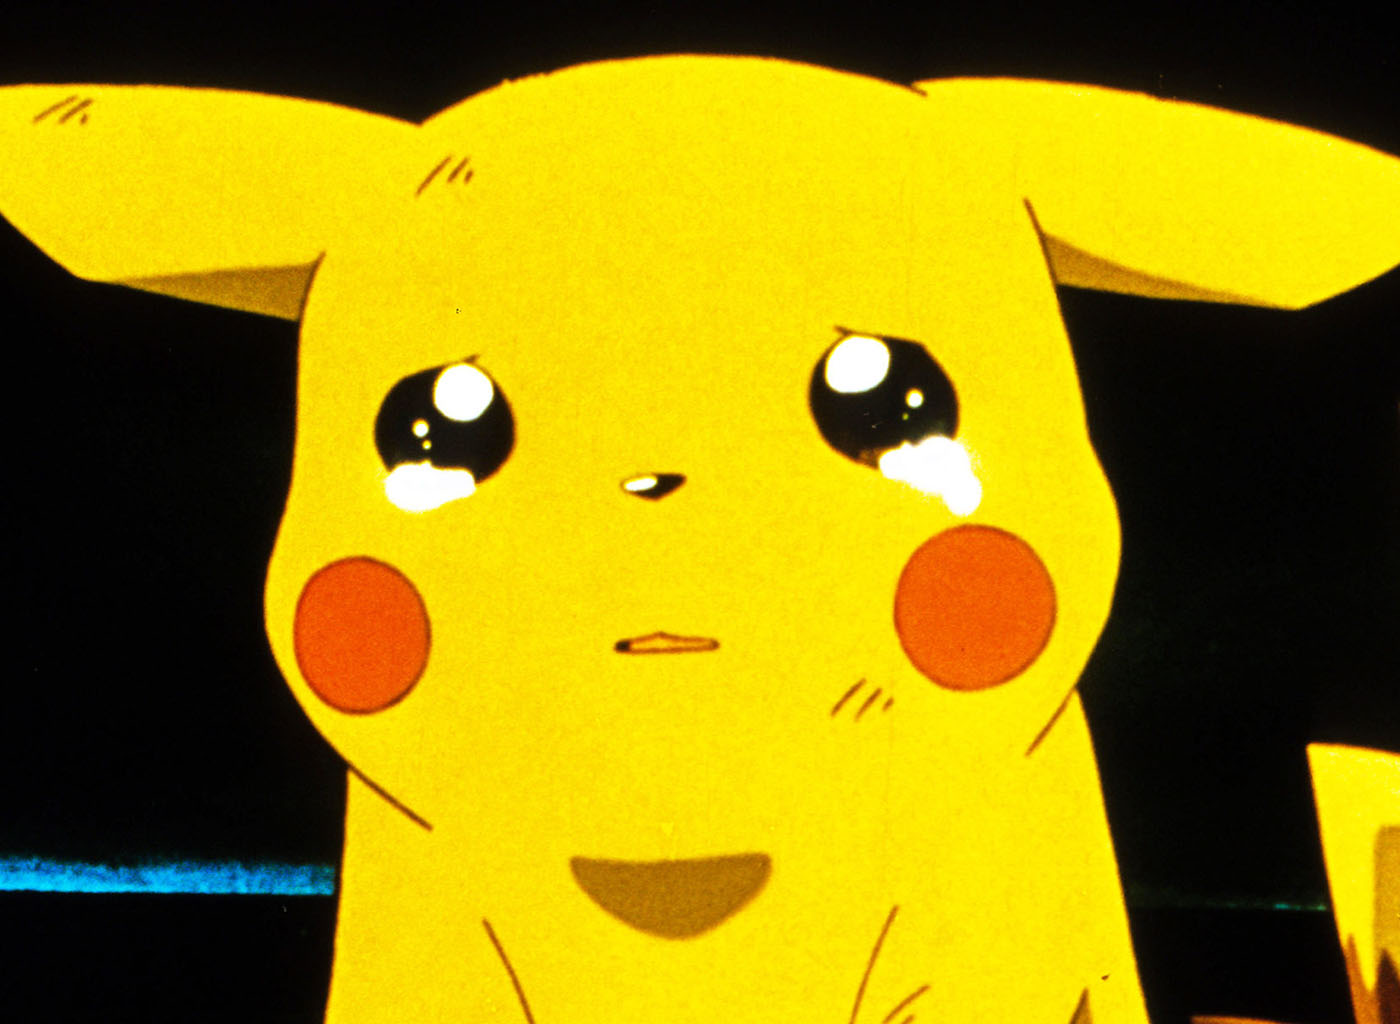
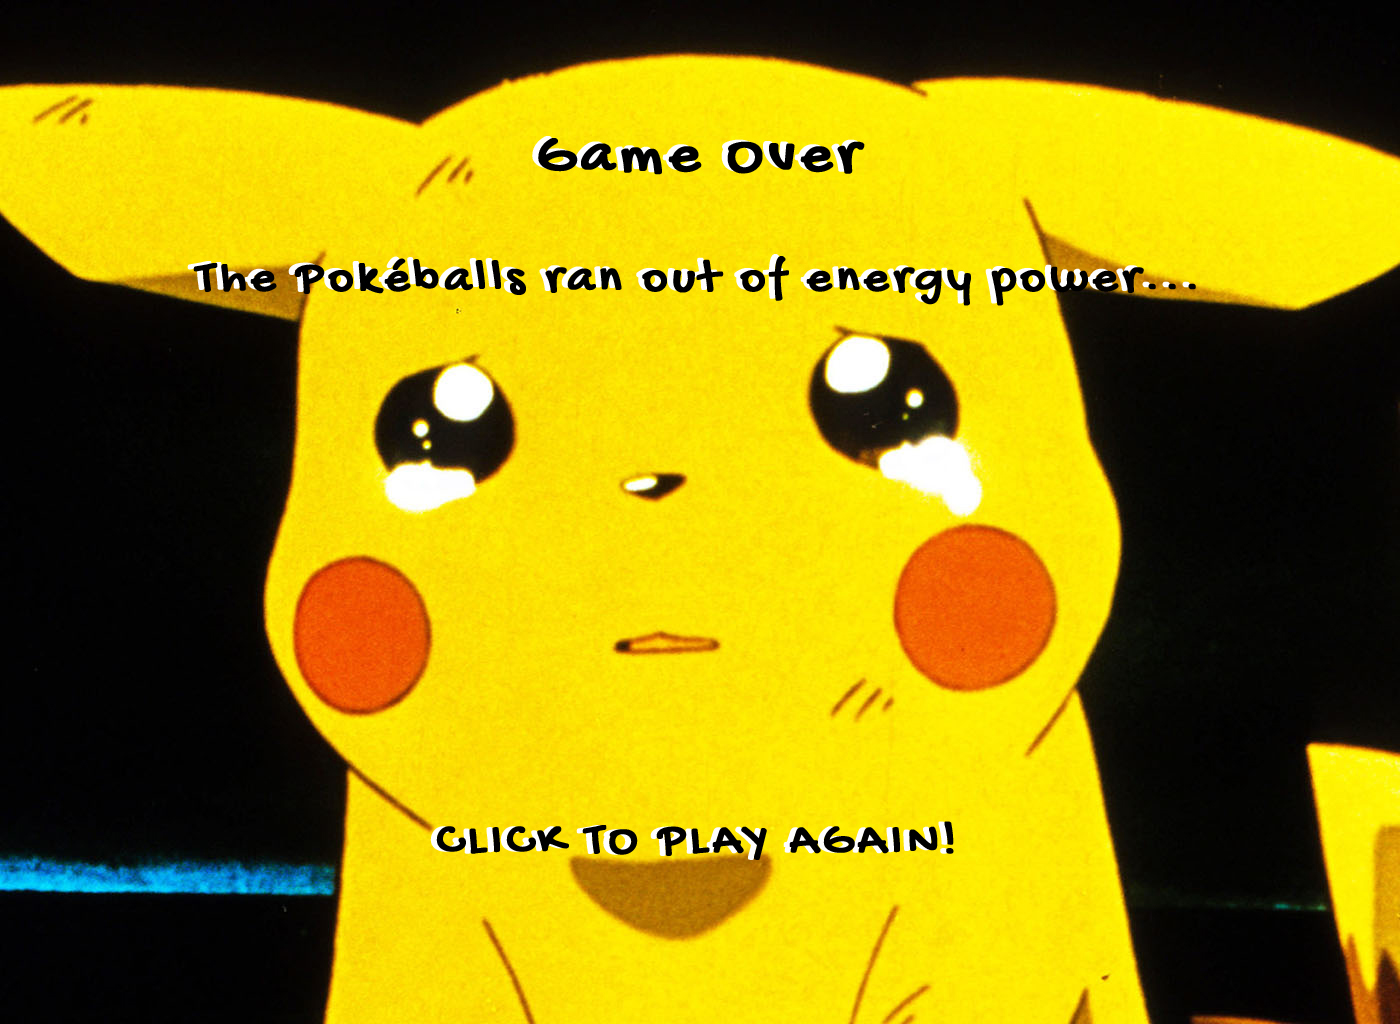
Pr2: Added Game Over sound

Changed region(s): [[0.1229, 0.25, 0.86, 0.3125], [0.3071, 0.7812, 0.7064, 0.8438], [0.3686, 0.125, 0.6143, 0.1875]]

diff --git a/Projects/Project2/js/script.js b/Projects/Project2/js/script.js
@@ -37,11 +37,12 @@ let jigglypuffImage;
 
 // Display sounds
 let backgroundMusic;
+let gameOverPikaSound;
 
 // Preload functions for images
 function preload() {
   backgroundImage = loadImage('./assets/images/backgroundImage.png');
-  startImage = loadImage('./assets/images/startImage.png');
+  startImage = loadImage('./assets/images/startImage.jpg');
   endingImage = loadImage('./assets/images/endingImage.jpg');
   pokeball1Image = loadImage('./assets/images/pokeball1Image.png');
   pokeball2Image = loadImage('./assets/images/pokeball2Image.png');
@@ -53,6 +54,7 @@ function preload() {
   jigglypuffImage = loadImage('./assets/images/jigglypuffImage.png');
   //Preload for sounds
   backgroundMusic = loadSound('./assets/sounds/backgroundMusic.mp3');
+  gameOverPikaSound = loadSound('./assets/sounds/gameOverPikaSound.mp3');
 }
 // setup()
 //
@@ -178,5 +180,6 @@ function checkGameOver() {
     state = "GAMEOVER"
     console.log("gameOver")
     backgroundMusic.stop()
+    gameOverPikaSound.play()
 }
 }
